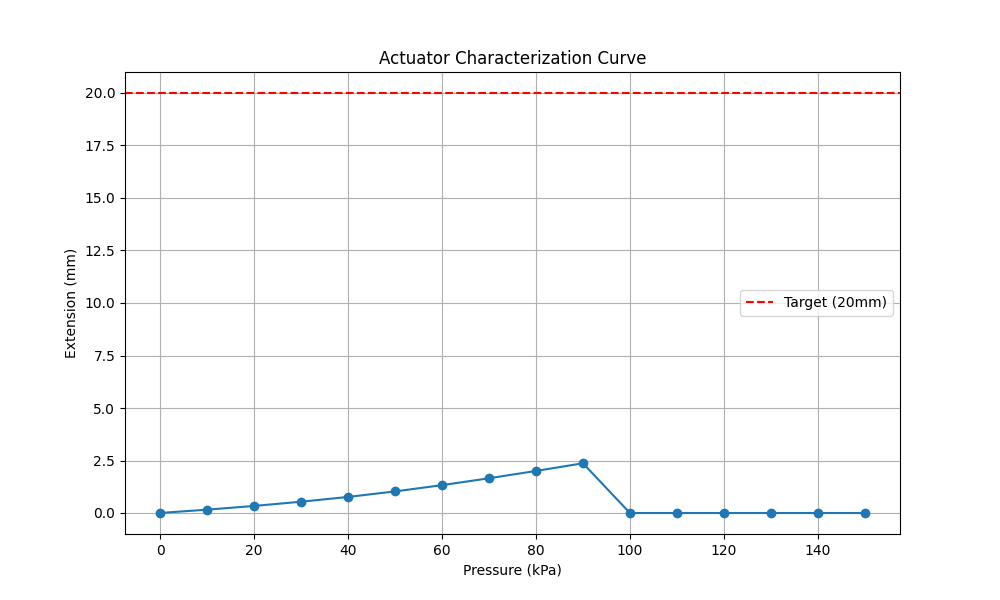
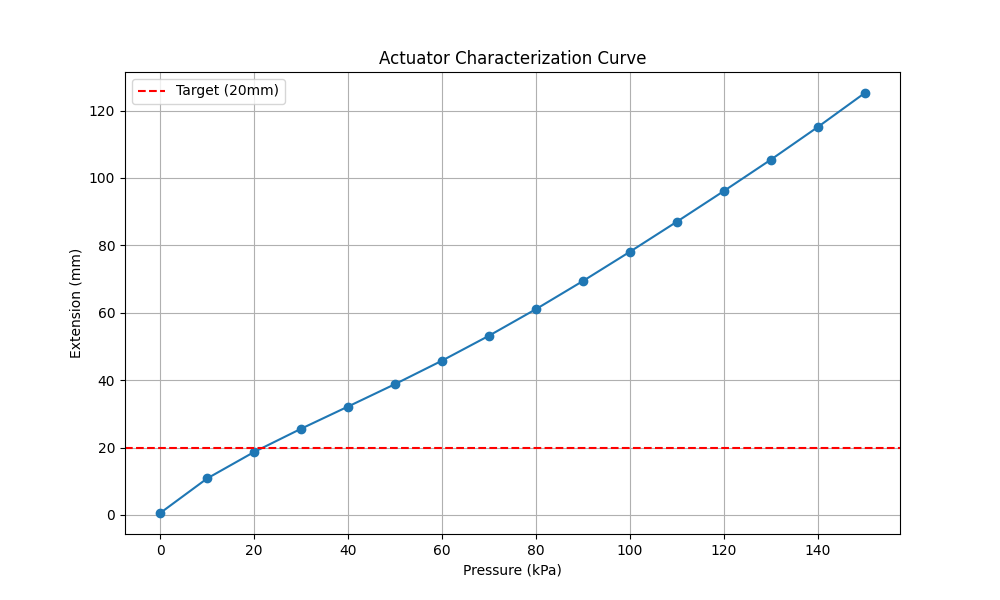
fix apply pressure twice

diff --git a/find_pressure.py b/find_pressure.py
@@ -7,8 +7,8 @@ def sweep_pressure():
     # Initialize environment
     env = AnsysSoftActuatorEnv(
         dat_path=r"actuator_setup_150kPa.dat", 
-        target_deformation=0.02, # 2cm target
-        #actuation_axis='X'
+        target_deformation=0.05, # 2cm target
+        log_level="ERROR"
     )
     
     # Define range: 0 kPa to 150 kPa in 10 kPa steps
@@ -20,49 +20,23 @@ def sweep_pressure():
     extensions_mm = []
 
     print("Starting Pressure Sweep...")
-    
-    for p_kpa in pressures_kpa:
-        # Convert kPa to normalized action [-1, 1]
-        # Formula: Action = (Pressure / Max_Pressure * 2) - 1
-        # Assuming Max_Pressure in env is 150,000 Pa (adjust env if needed)
-        
-        # Calculate raw pressure in Pa
-        p_pa = p_kpa * 1000.0
-        
-        # Manually invoke the solver logic (bypassing step() to ensure steady state)
-        env.mapdl.prep7()
-        env.mapdl.cmsel('S', 'Inner1new') # Explicitly select the internal cavity faces
-        env.mapdl.sf('ALL', 'PRES', p_pa) # Apply pressure in Pascals
-        env.mapdl.allsel() # Reselect everything so the solver can see the rest of the body
-        
-        env.mapdl.run('/SOLU')
-        env.mapdl.antype('STATIC')
-        env.mapdl.kbc(0) # Force Ramped Loading
-        env.mapdl.nlgeom('ON')
-        # Min 50 steps, Max 1000 steps (give it freedom to slow down), Min 20 steps
-        env.mapdl.nsubst(50, 1000, 20)        
-        env.mapdl.solve()
-        env.mapdl.finish()
-        
-        # GET RESULT -----------------------------------------------------------
-        # Check if solver converged
-        if not env.mapdl.solution.converged:
-            print(f"Pressure: {p_kpa:.0f} kPa -> FAILED (Diverged)")
-            extensions_mm.append(0.0) # Record 0 for failure
-            continue
 
-        # Get result
-        env.mapdl.post1()
-        env.mapdl.set('LAST')
-        env.mapdl.nsort('U', 'X')
-        ext = env.mapdl.get_value('SORT', 0, 'MAX')
-        
-        # Safety check
-        if ext is None: ext = 0.0
-        
-        # Print result
-        print(f"Pressure: {p_kpa:.0f} kPa -> Extension: {ext*1000:.2f} mm")
-        extensions_mm.append(ext * 1000)
+    # Reset environment
+    obs, _ = env.reset()
+    print(f"Initial Observation: {obs}")
+    
+    # Run for n_steps with random actions
+    for p_kpa in pressures_kpa:
+        p_pa = p_kpa * 1000.0 # Convert kPa to Pa
+        action = (p_pa / env.max_pressure) * 2 - 1  # Normalize to [-1, 1]
+        # Step the environment
+        obs, reward, done, truncated, info = env.step([action])
+        cur_deform = obs[0] # in meters
+        print(f"  Applied Pressure: {info['pressure_applied']:.2f} Pa")
+        print(f"  Resulting Deform: {cur_deform*100:.6f} cm")
+        print(f"  Reward: {reward:.4f}")
+
+        extensions_mm.append(cur_deform * 100)
 
     # Plot results
     plt.figure(figsize=(10, 6))
@@ -77,6 +51,8 @@ def sweep_pressure():
     plt.show()
 
     env.close()
+
+
 
 if __name__ == "__main__":
     sweep_pressure()
